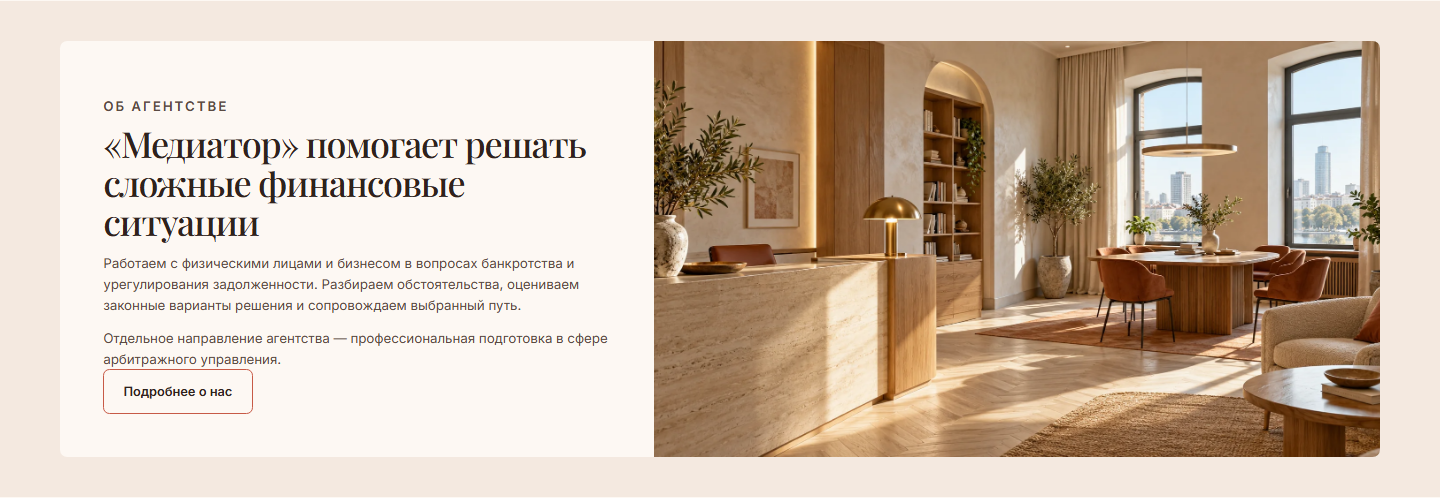
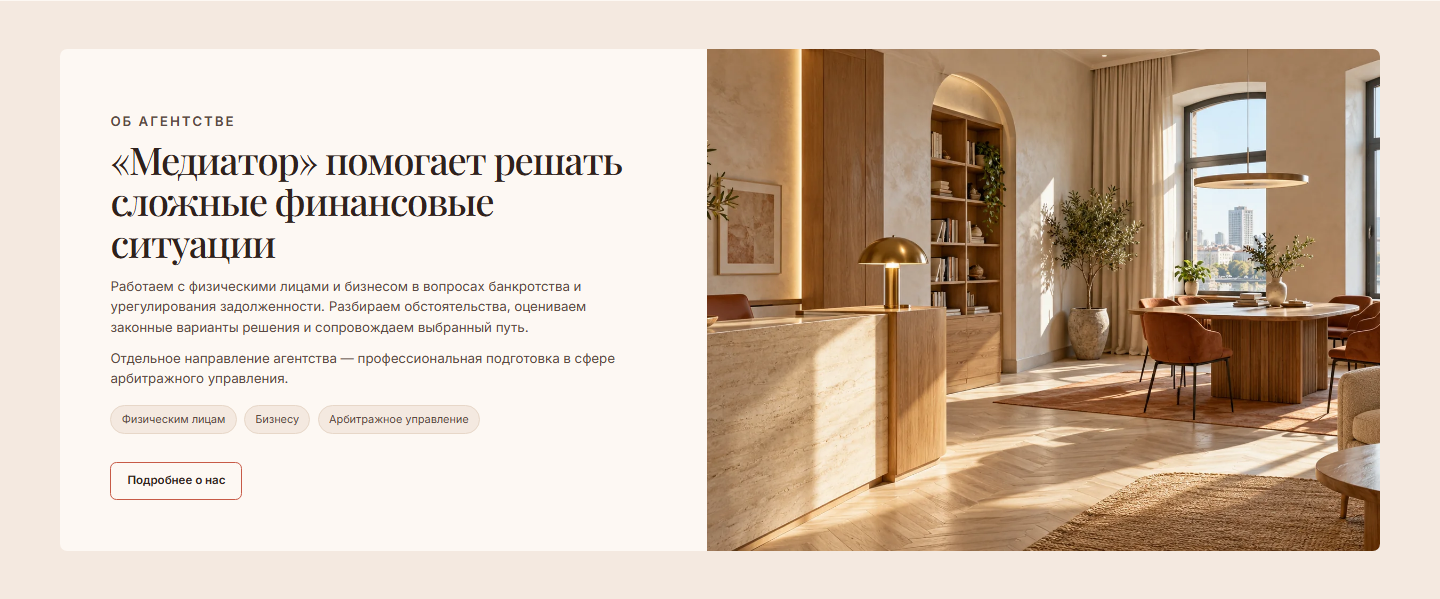
refine agency section layout

diff --git a/src/components/About/About.module.scss b/src/components/About/About.module.scss
@@ -1,12 +1,12 @@
 .section {
-  padding-block: clamp(1.5rem, 3vw, 2.5rem);
+  padding-block: clamp(1.8rem, 3.6vw, 3rem);
   background: var(--color-surface-warm);
 }
 
 .layout {
   display: grid;
-  min-height: 19rem;
-  grid-template-columns: 0.9fr 1.1fr;
+  min-height: 21rem;
+  grid-template-columns: 0.98fr 1.02fr;
   overflow: hidden;
   border-radius: var(--radius-card);
   background: var(--color-background);
@@ -17,10 +17,11 @@
   align-items: flex-start;
   flex-direction: column;
   justify-content: center;
-  padding: clamp(1.5rem, 3vw, 2.7rem);
+  padding: clamp(1.8rem, 3.5vw, 3.3rem);
 
   h2 {
     margin-top: 0.55rem;
+    font-size: clamp(1.75rem, 2.65vw, 2.6rem);
   }
 
   p:not(.eyebrow) {
@@ -30,7 +31,30 @@
     font-size: 0.83rem;
   }
 
-  .button {
+  > p:not(.eyebrow) + p:not(.eyebrow) {
+    margin-top: 0.65rem;
+  }
+
+  .directions {
+    display: flex;
+    flex-wrap: wrap;
+    gap: 0.45rem;
+    margin-top: 1rem;
+    list-style: none;
+    padding: 0;
+
+    li {
+      padding: 0.38rem 0.65rem;
+      border: 1px solid var(--color-border);
+      border-radius: 999px;
+      background: var(--color-surface-warm);
+      color: var(--color-text-secondary);
+      font-size: 0.68rem;
+      line-height: 1.35;
+    }
+  }
+
+  :global(.button) {
     min-height: 2.4rem;
     margin-top: 1.75rem;
     padding: 0.6rem 1rem;
@@ -39,20 +63,26 @@
 }
 
 .imageWrap {
-  min-height: 19rem;
+  min-height: 21rem;
   background: #d5c2b0;
 
   img {
     width: 100%;
     height: 100%;
-    min-height: 19rem;
+    min-height: 21rem;
     object-fit: cover;
+  }
+}
+
+@media (min-width: 701px) and (max-width: 850px) {
+  .copy {
+    padding: 1.75rem;
   }
 }
 
 @media (max-width: 700px) {
   .section {
-    padding-block: 1.25rem;
+    padding-block: 1.5rem;
   }
 
   .layout {
@@ -60,12 +90,12 @@
   }
 
   .copy {
-    padding: 1.5rem;
+    padding: 1.8rem;
   }
 
   .imageWrap,
   .imageWrap img {
-    min-height: 13rem;
-    max-height: 16rem;
+    min-height: 14rem;
+    max-height: 17rem;
   }
 }

diff --git a/src/data/siteContent.ts b/src/data/siteContent.ts
@@ -31,6 +31,7 @@ export const aboutContent = {
     'Работаем с физическими лицами и бизнесом в вопросах банкротства и урегулирования задолженности. Разбираем обстоятельства, оцениваем законные варианты решения и сопровождаем выбранный путь.',
     'Отдельное направление агентства — профессиональная подготовка в сфере арбитражного управления.',
   ],
+  focusAreas: ['Физическим лицам', 'Бизнесу', 'Арбитражное управление'],
   action: 'Подробнее о нас',
   modal: {
     title: 'О агентстве «Медиатор»',

diff --git a/src/components/About/About.tsx b/src/components/About/About.tsx
@@ -43,6 +43,9 @@ function About() {
           <p className="eyebrow">{aboutContent.eyebrow}</p>
           <h2 className="section-title" id="about-title">{aboutContent.title}</h2>
           {aboutContent.paragraphs.map((paragraph) => <p key={paragraph}>{paragraph}</p>)}
+          <ul className={styles.directions} aria-label="Направления агентства">
+            {aboutContent.focusAreas.map((area) => <li key={area}>{area}</li>)}
+          </ul>
           <button
             ref={returnFocusRef}
             className="button button--outline"

diff --git a/design-qa.md b/design-qa.md
@@ -141,3 +141,13 @@ final result: passed
 final result: passed
 
 - **Follow-up visual polish:** following the supplied screenshot review, increased the gap between the final paragraph and the About button. Refreshed all three section captures and reran desktop/tablet/mobile layout, popup, close, focus-return, and form CTA checks; no P0/P1/P2 issues or horizontal overflow.
+
+## About agency section layout refinement QA (2026-10-07)
+
+**Result: passed** — no P0/P1/P2 findings in this focused section review.
+
+- Updated section screenshots: [desktop](qa/about-block-desktop.png), [tablet](qa/about-block-tablet.png), [mobile](qa/about-block-mobile.png). Browser viewports: 1440 × 1000, 768 × 1000, and 390 × 844 CSS px.
+- Measured section heights: 598 px desktop, 600 px tablet, 816 px mobile; previous captures were approximately 496 px, 506 px, and 657 px. The revised block is visibly taller at all widths while retaining the existing split image/copy composition.
+- Text column widened at desktop/tablet; image asset and copy remain unchanged. The three directions render as compact cream/terracotta text chips; mobile wraps them across two lines without crowding. The button remains prominent below them with a measured 28 px gap.
+- Horizontal overflow: none at all three widths. No page errors. Popup was not changed or included in this focused QA.
+- **P3:** none identified.
